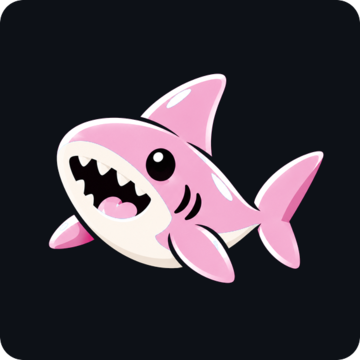
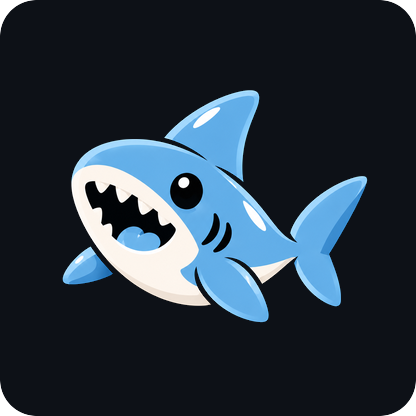
docs(readme): keep the shark blue, pink only as a fine accent
The pink recolour took over the whole mark. Restore the original artwork in its
own shark blue and let the pink carry only a single accent on the page.

The assets are the untouched colour originals on the same canvas-coloured
rounded card, so they still disappear into dark mode and read as a deliberate
card on light. Page badges now use the blue sampled from the artwork itself
(#63AEE7), with one pink badge left as the accent.

diff --git a/README.md b/README.md
@@ -8,9 +8,9 @@ A local-first voice assistant, a plugin host, a system sound engine,<br/>
 and a pile of security fixes — on top of Axenide's Wayland shell.
 
 <p>
-  <img src="https://img.shields.io/badge/fork_of-Axenide%2FAmbxst-F6A8C4?style=for-the-badge&labelColor=0d1117" alt="Fork of Axenide/Ambxst" />
-  <img src="https://img.shields.io/badge/upstream-1.3.6-F6A8C4?style=for-the-badge&labelColor=0d1117" alt="Upstream 1.3.6" />
-  <img src="https://img.shields.io/badge/license-AGPL--3.0-F6A8C4?style=for-the-badge&labelColor=0d1117" alt="AGPL-3.0" />
+  <img src="https://img.shields.io/badge/fork_of-Axenide%2FAmbxst-63AEE7?style=for-the-badge&labelColor=0d1117" alt="Fork of Axenide/Ambxst" />
+  <img src="https://img.shields.io/badge/upstream-1.3.6-63AEE7?style=for-the-badge&labelColor=0d1117" alt="Upstream 1.3.6" />
+  <img src="https://img.shields.io/badge/license-AGPL--3.0-63AEE7?style=for-the-badge&labelColor=0d1117" alt="AGPL-3.0" />
   <img src="https://img.shields.io/badge/compositor-Hyprland-F6A8C4?style=for-the-badge&labelColor=0d1117" alt="Hyprland" />
 </p>
 
